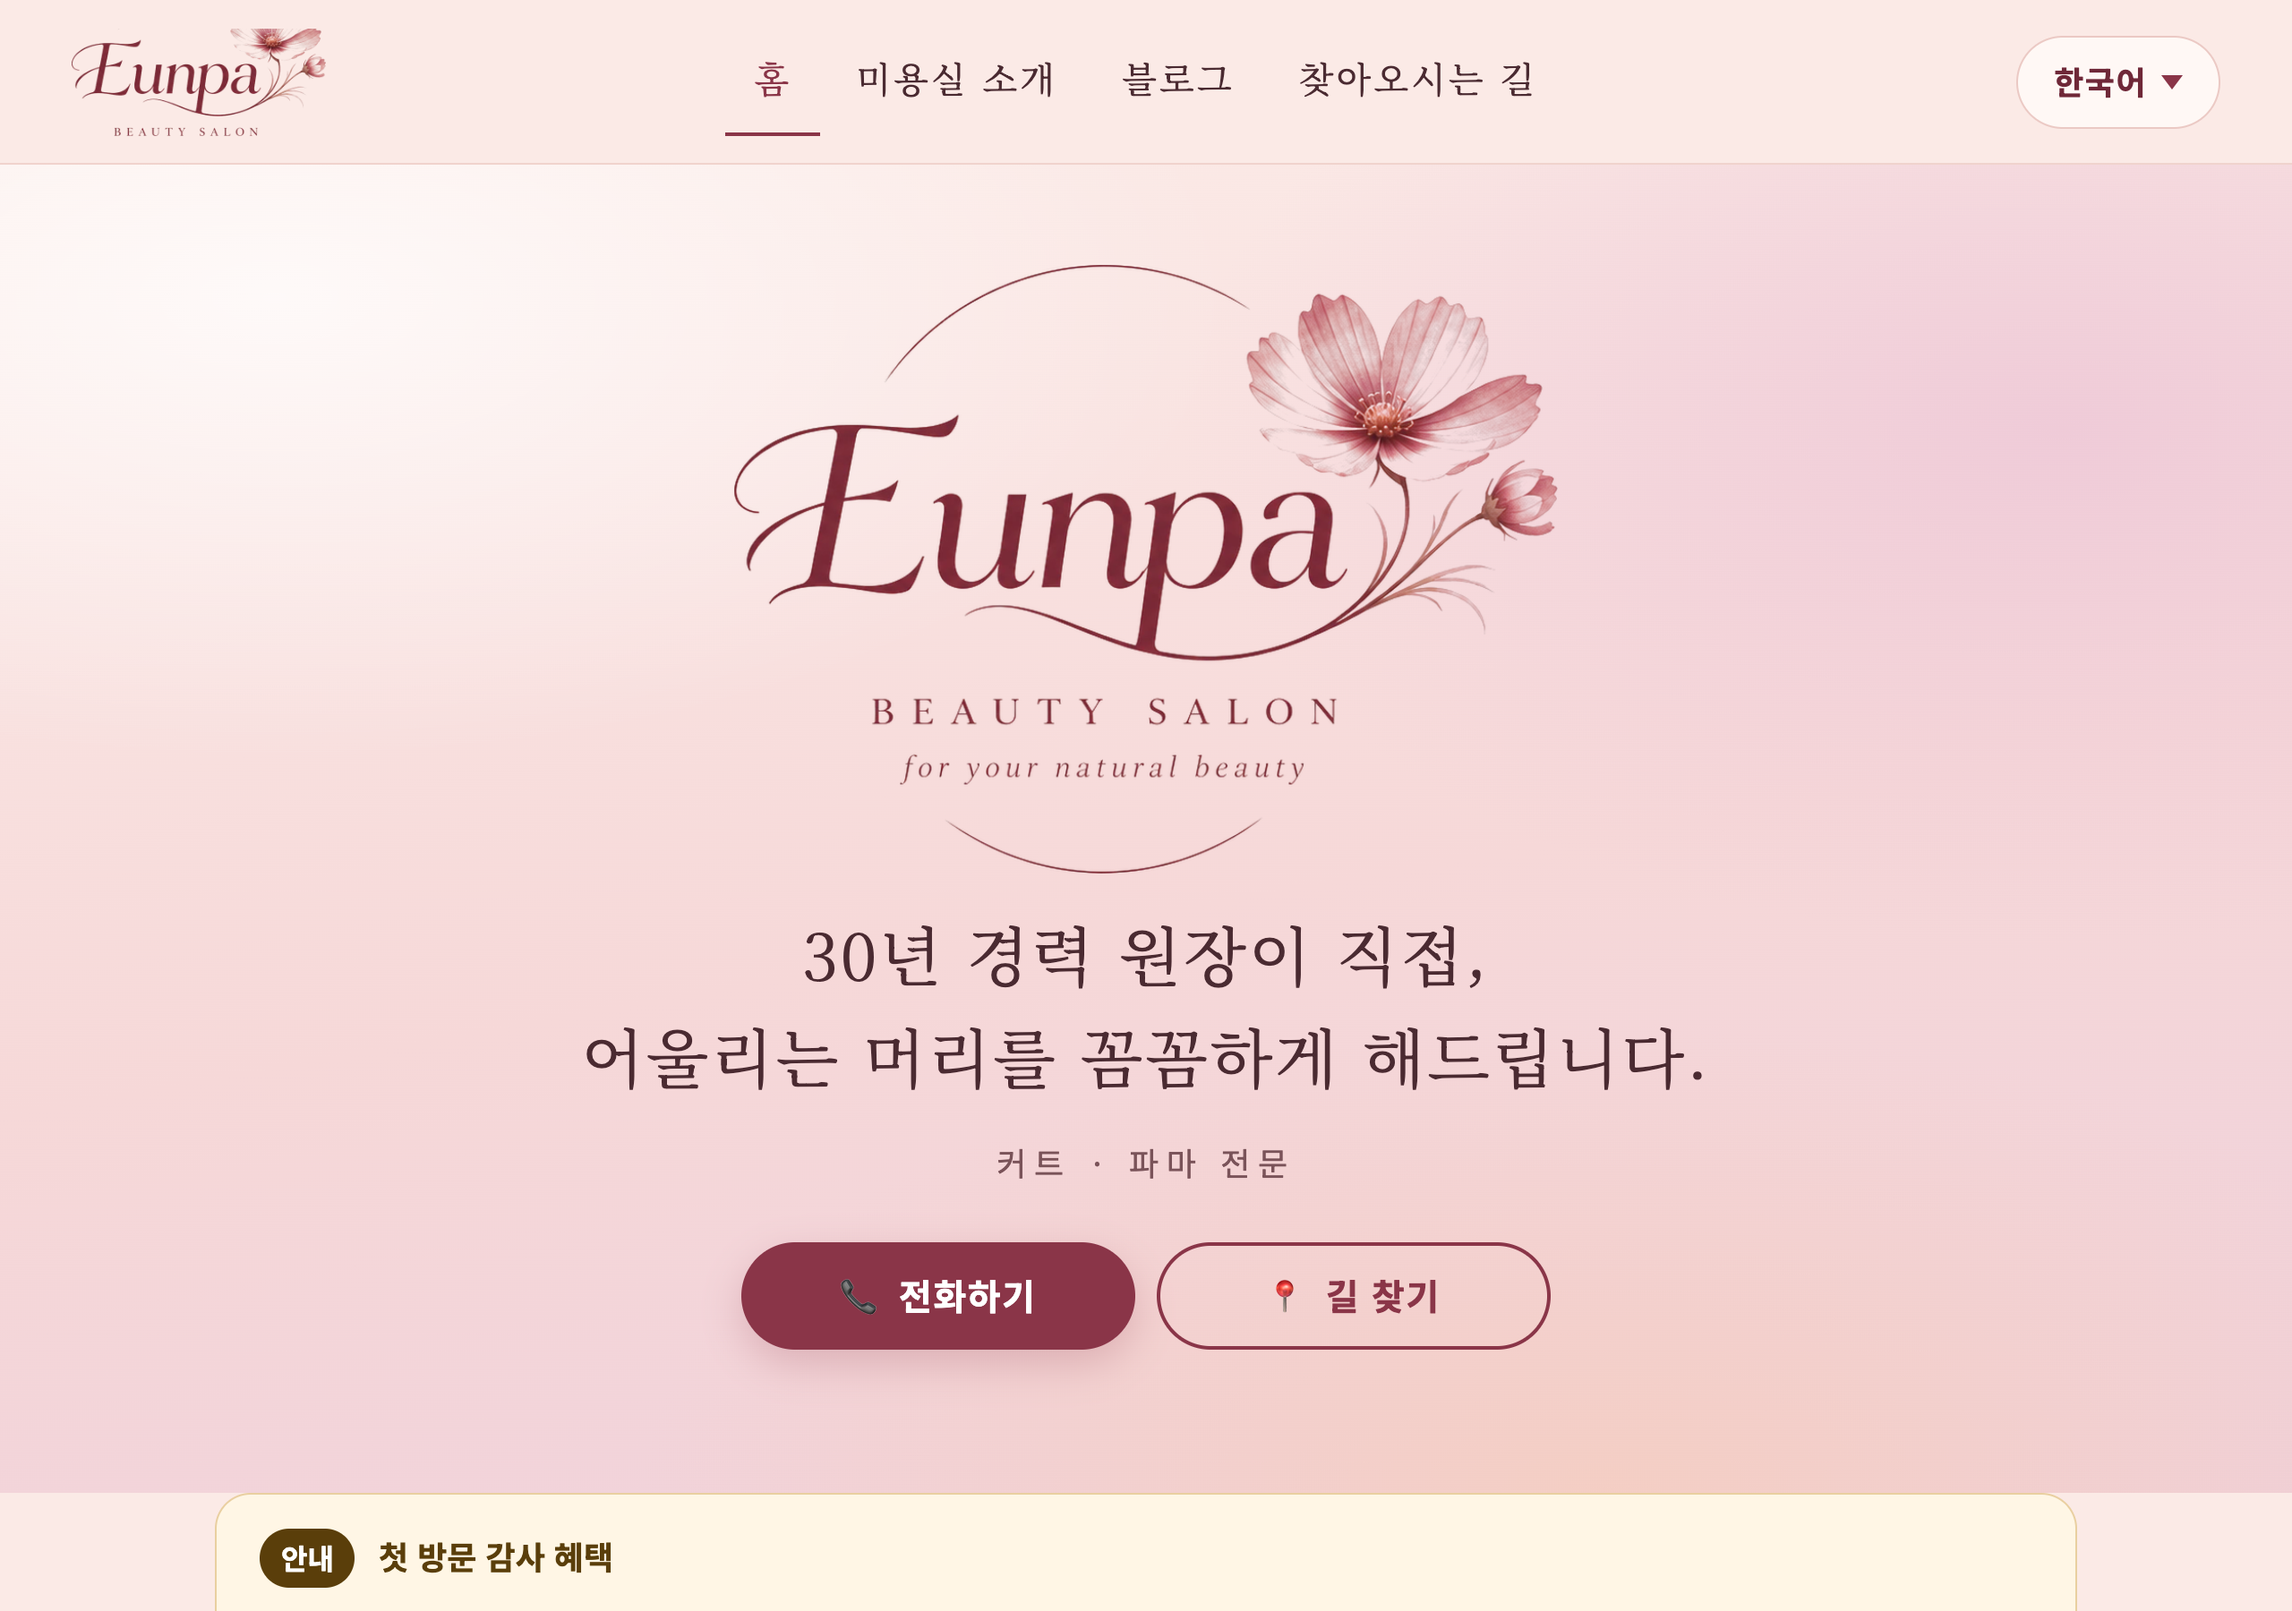
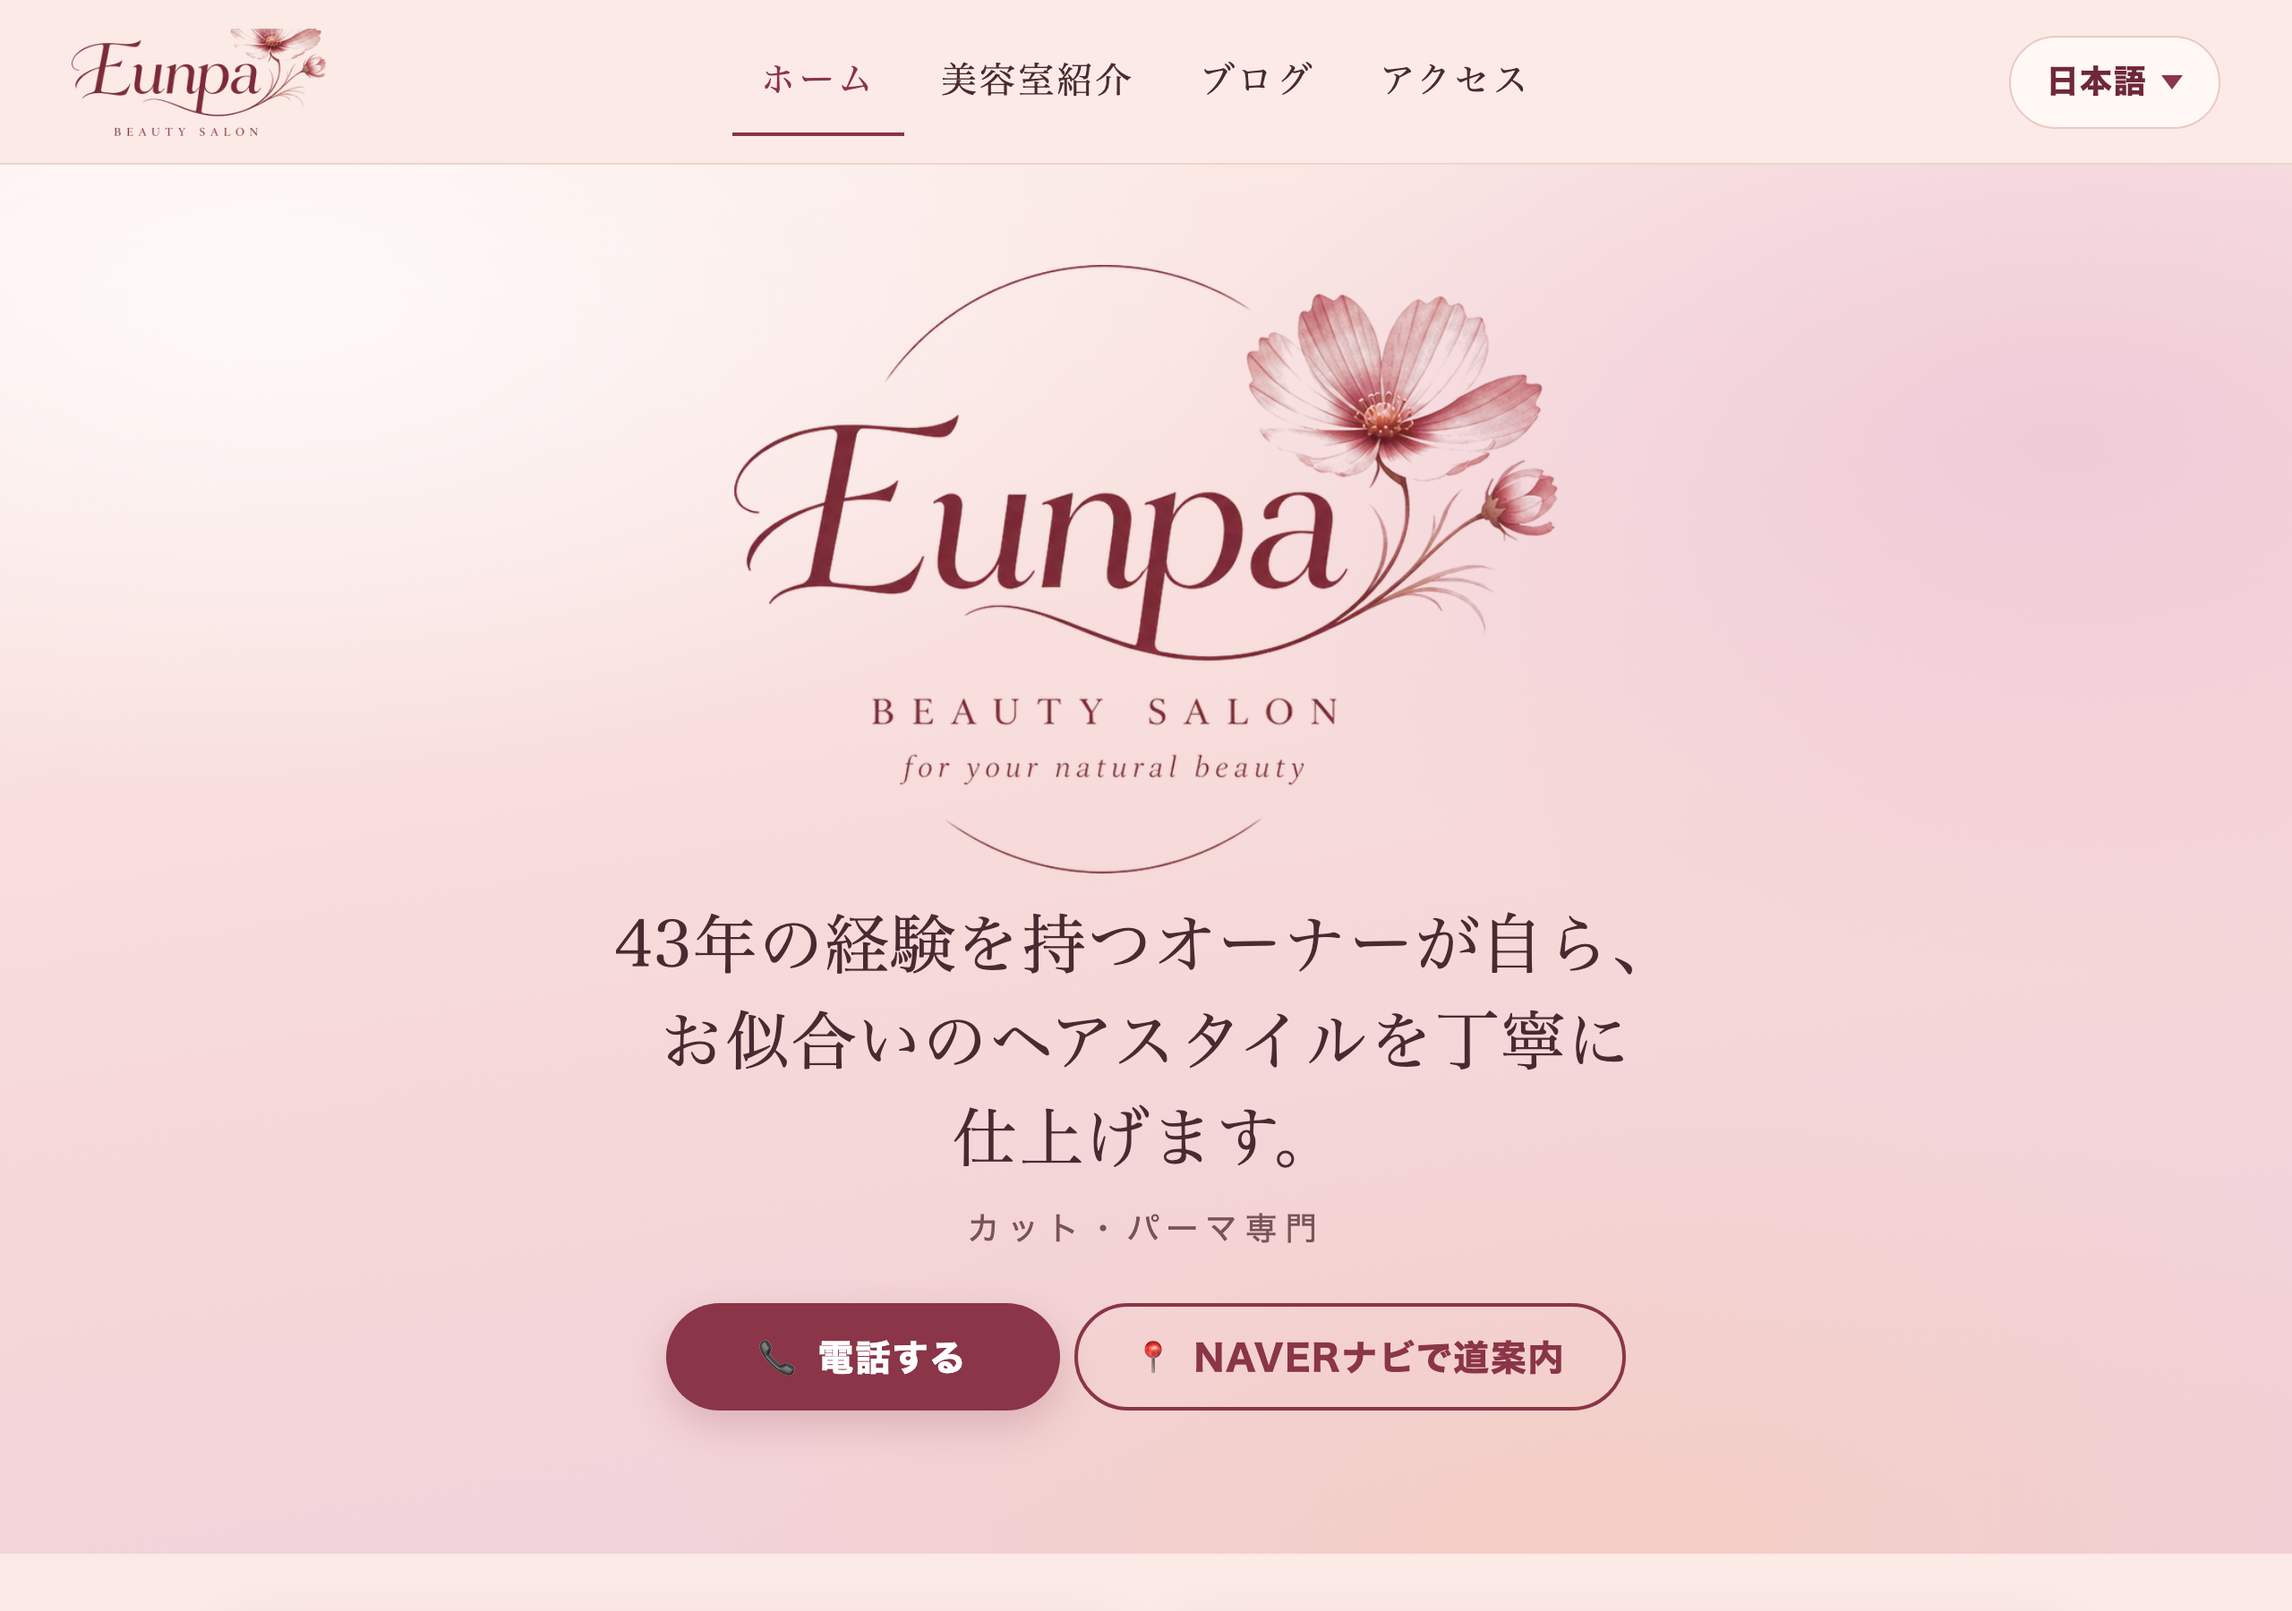
README のスクリーンショット（モバイル・デスクトップ）を日本語版に差し替え、日本語の見出しが文節の途中で改行されないよう調整

diff --git a/app/assets/stylesheets/application.css b/app/assets/stylesheets/application.css
@@ -158,6 +158,8 @@ p { margin: 0 0 1em; }
 .hero-owner-photo { display: block; width: 200px; height: 200px; margin: 4px auto 12px; border-radius: 50%; object-fit: cover; object-position: center 25%; border: 4px solid #FFF8F5; box-shadow: var(--shadow-strong); }
 .hero-title { max-width: 18em; font-family: var(--font-serif); font-size: 1.5rem; font-weight: 400; line-height: 1.5; letter-spacing: .02em; margin: 4px auto .3em; }
 html:lang(ko) .hero-title { word-break: keep-all; }
+/* 日本語は文節の途中（「自／ら」など）で改行されにくくし、行の長さを均等にする */
+html:lang(ja) .hero-title { word-break: auto-phrase; text-wrap: balance; }
 .hero-sub { margin: 0; font-size: 1.125rem; line-height: 1.5; color: var(--text-muted); letter-spacing: .24em; }
 .hero .button-row { gap: 8px; margin: 16px 0 0; width: 100%; max-width: 420px; }
 .hero .btn { min-height: 52px; font-size: 1.1875rem; letter-spacing: .04em; }
